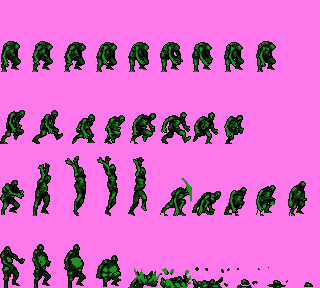
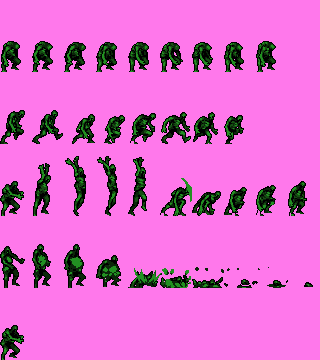
partway through implementing separate grab action

diff --git a/src/guy.c b/src/guy.c
@@ -56,22 +56,30 @@ void Guy_move(Guy *g, fix16 dx, fix16 dy) {
     );
 }
 
-void Guy_throw(Guy *g) {
+void Guy_grab(Guy *g) {
     if (g->throw_frames > 0) return;
+    if (g->holding) return;
     fix16 center_x = g->x + g->x_offset_center;
     fix16 center_y = g->y + FIX16(64);
     Physics *near = Physics_find_nearby(center_x, center_y, PHYSICS_T_MARBLE);
     if (!near) return;
-    g->throw_frames = GUY_FRAMES_PER_ANIM * 10;
     g->holding = near;
+    near->x = g->x + g->x_offset_marble;
+    near->y = g->y + FIX16(48);
     near->has_collision = FALSE;
     if (near->in_tray) {
         near->in_tray = FALSE;
         Game_change_tray_marbles(g->game, near->tray_no, -1);
     }
-    near->x = g->x + g->x_offset_marble;
-    near->y = g->y + FIX16(48);
     near->dx = 0;
+    near->dy = 0;
+    SPR_setAnim(g->sprite, 4);
+}
+
+void Guy_throw(Guy *g) {
+    if (g->throw_frames > 0) return;
+    if (!g->holding) return;
+    g->throw_frames = GUY_FRAMES_PER_ANIM * 10;
     near->dy = FIX16(-40 / 2 / GUY_FRAMES_PER_ANIM); // traveling 40 pixels in 2 animations which take GUY_FRAMES_PER_ANIM frames
     g->throw_dy = 0;
     g->throw_dx = g->reversed ? -FIX16(3) : FIX16(3);

diff --git a/src/player.c b/src/player.c
@@ -65,6 +65,7 @@ void _ai(Player *p) {
         Guy_move(g, 0, p->ai_dy);
     }
     if (!(p->ai_frames_alive & 7)) {
+        Guy_grab(g);
         Guy_throw(g);
     }
 }
